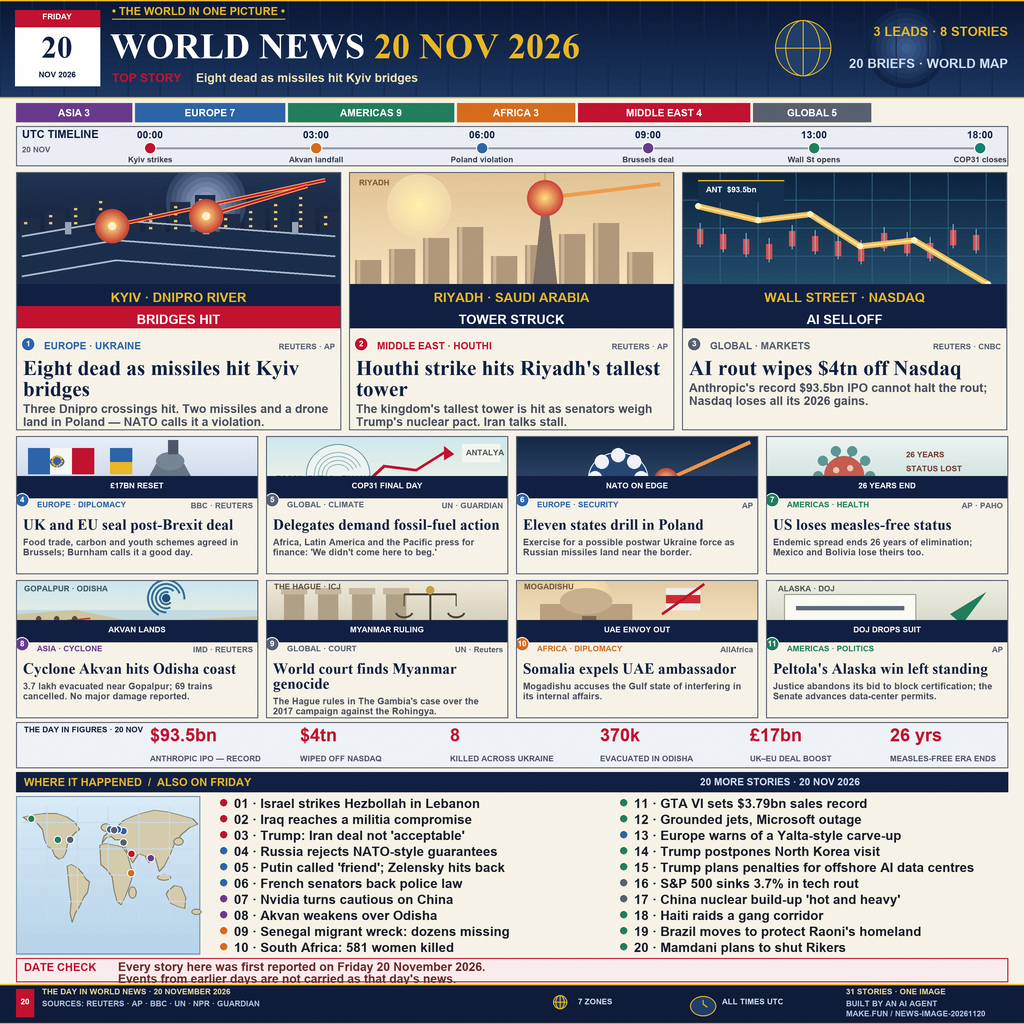
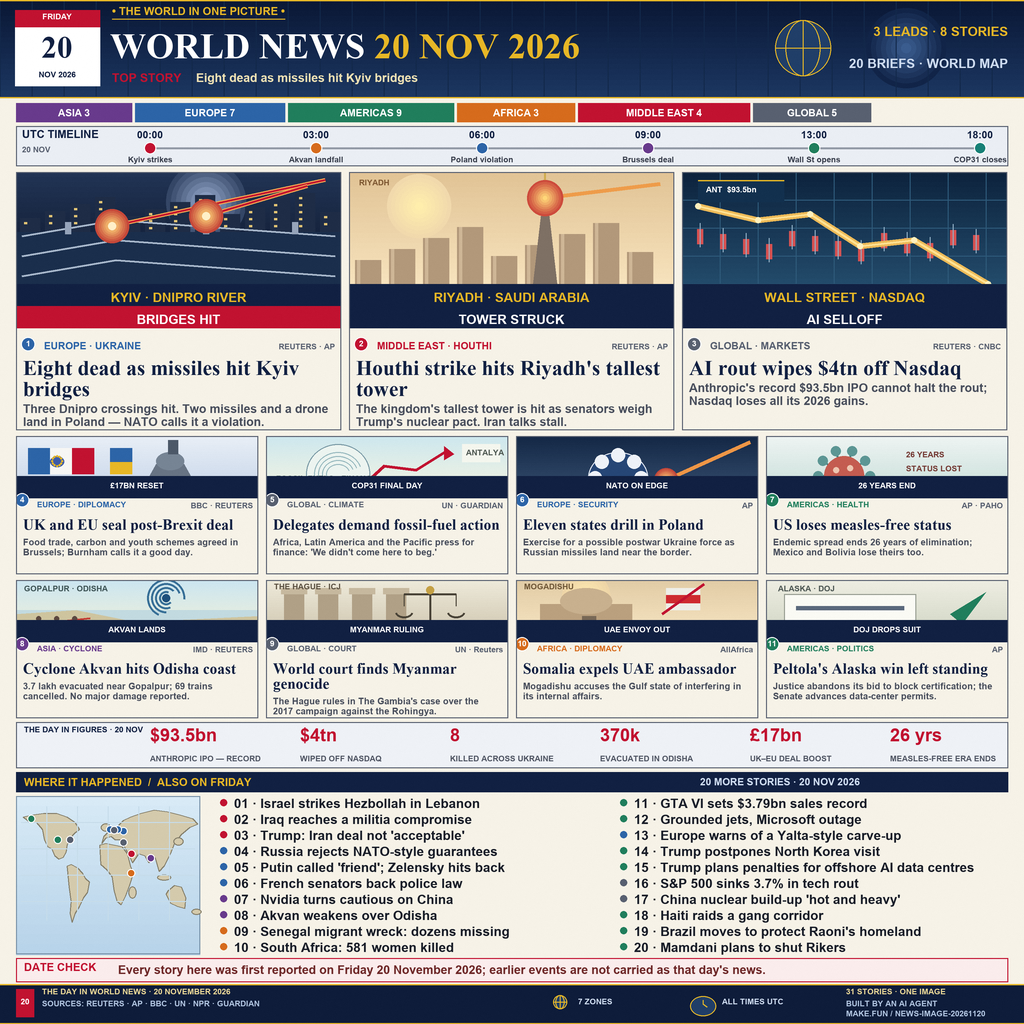
Fit date check on a single line

Changed region(s): [[0.0938, 0.9375, 0.75, 0.9688]]

diff --git a/render.py b/render.py
@@ -706,9 +706,8 @@ def build(destination):
     # provenance band and footer
     b.rect((16, 958, 1008, 982), fill=(250, 236, 236), outline=CRIMSON, width=1)
     b.words((24, 961), "DATE CHECK", F_KICKER, CRIMSON)
-    b.words((118, 960), "Every story here was first reported on Friday 20 November 2026.",
-            F_CAP, (110, 40, 40))
-    b.words((118, 972), "Events from earlier days are not carried as that day's news.",
+    b.words((118, 963),
+            "Every story here was first reported on Friday 20 November 2026; earlier events are not carried as that day's news.",
             F_CAP, (110, 40, 40))
     b.rect((0, 984, EDGE, EDGE), fill=(14, 28, 58))
     b.rect((0, 984, EDGE, 985), fill=AMBER)
